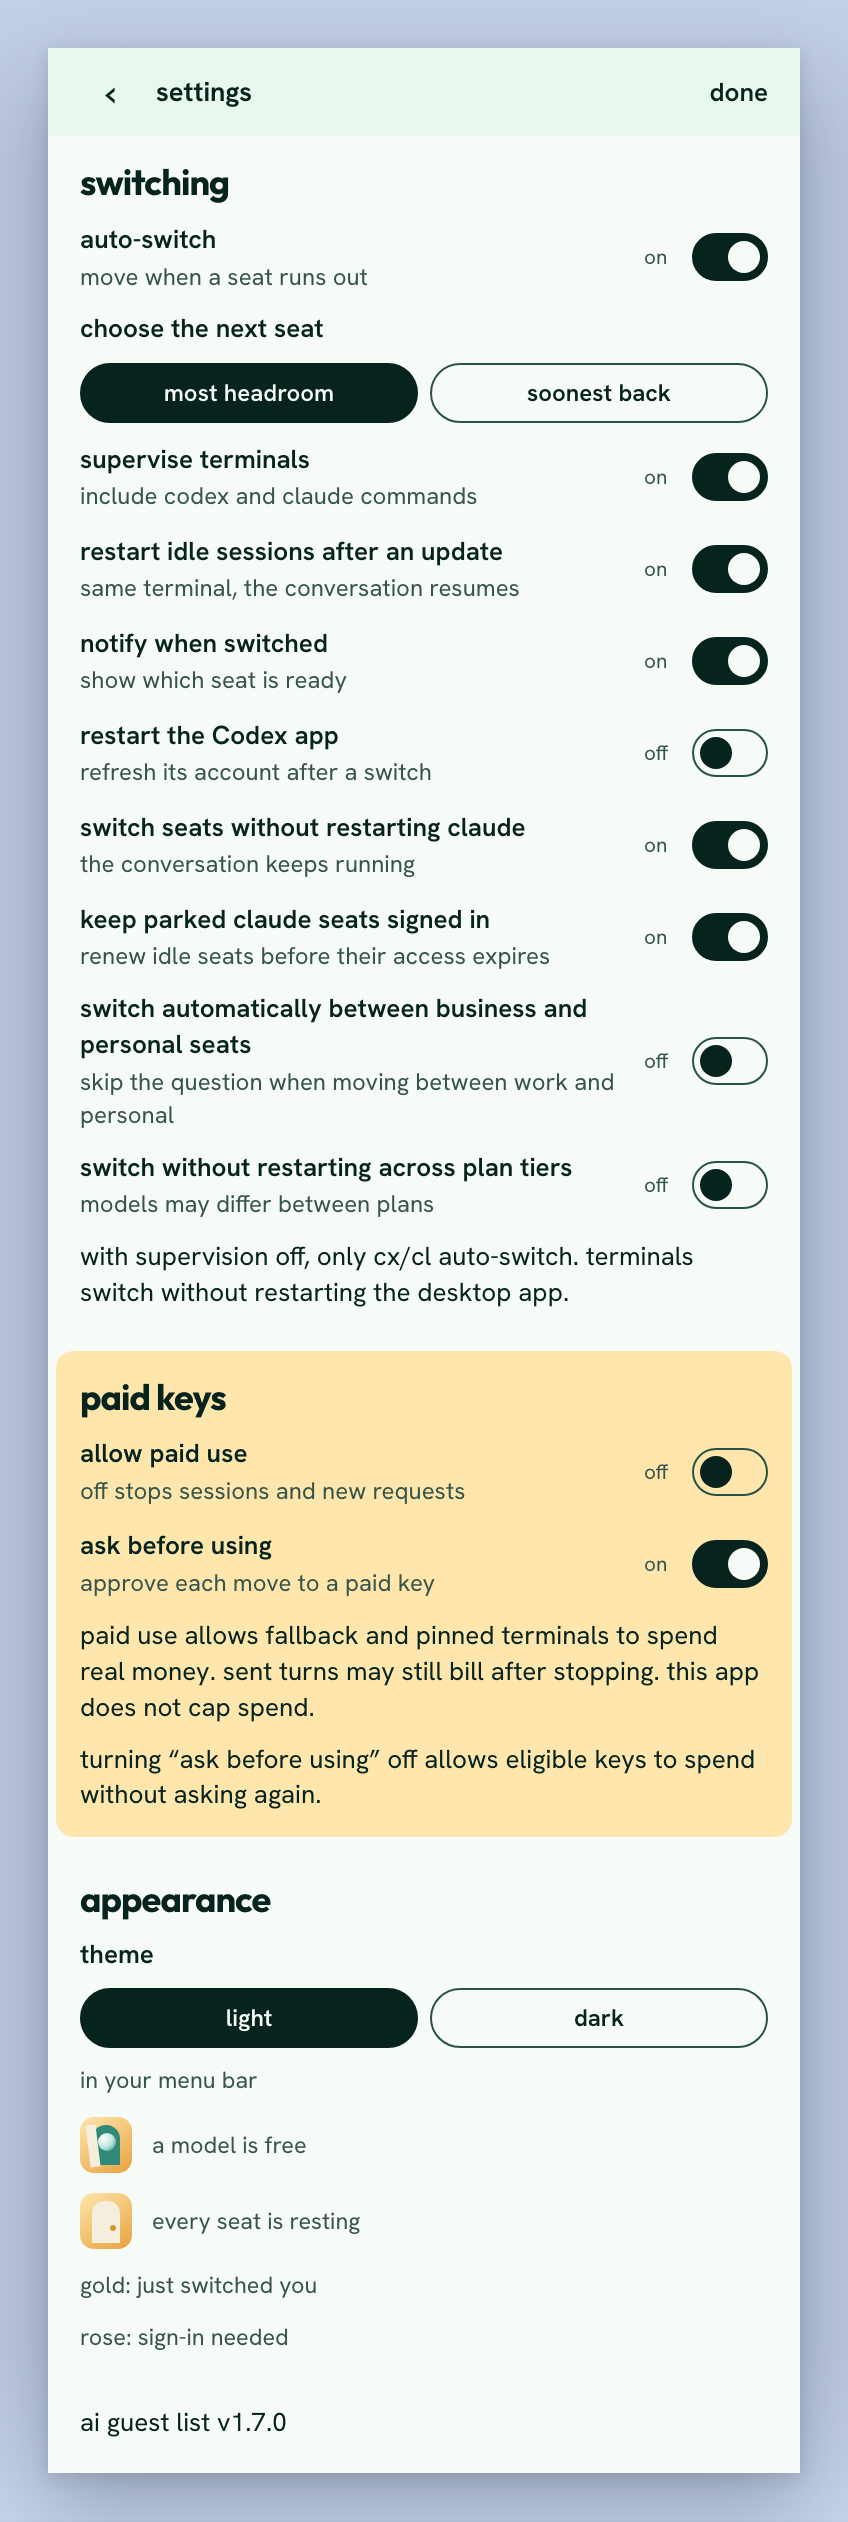
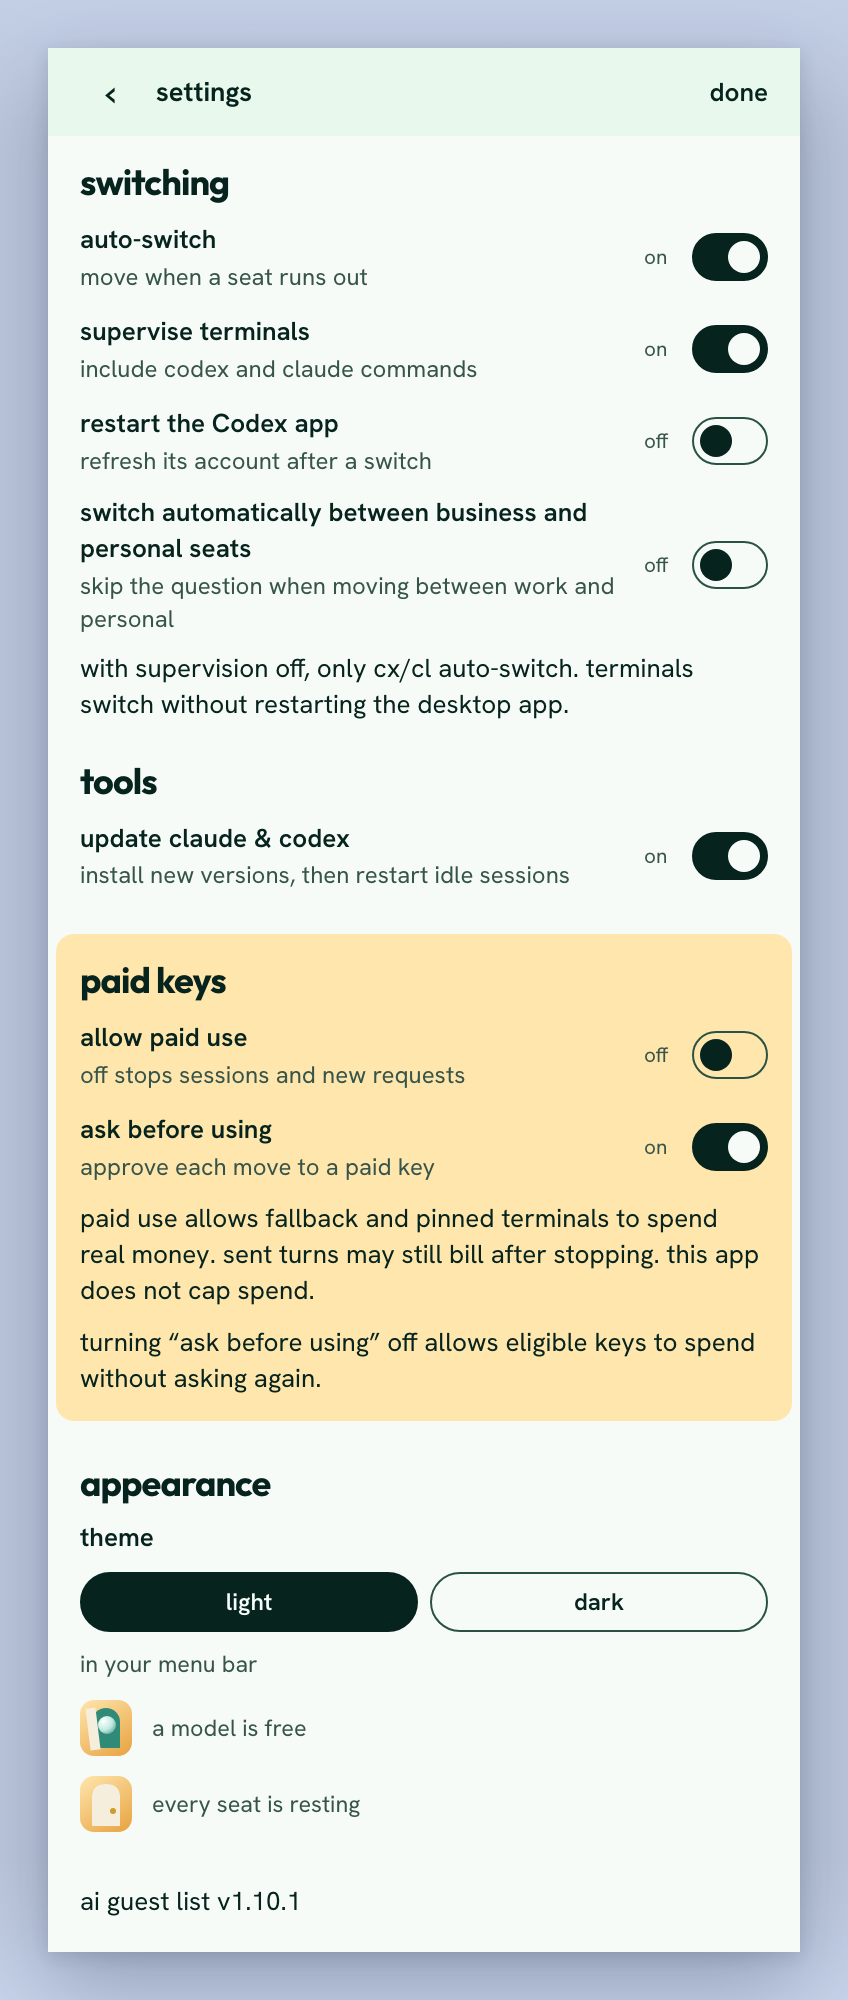
README: new screenshots and today's features (#96)
Regenerated screenshots (new settings with the tools section) and README text for CLI auto-updates, restarts after /resume, wake recovery and the remaining settings.

Changed region(s): [[0.0613, 0.0, 0.9505, 0.992], [0.6745, 0.775, 0.7358, 0.806], [0.6439, 0.248, 0.6745, 0.279]]

diff --git a/README.md b/README.md
@@ -53,7 +53,7 @@ connect through the official tools.
 <p align="center">
   <img src="docs/assets/screenshot.png" width="340" alt="The ai guest list popover: a status chip, then one block per tool with the seat on now, how much of its tighter window is left, when it resets and where work goes next; below, one line per other seat with its kind and plan, a resting seat with its return time, and an API-key seat priced per token." />
   &nbsp;
-  <img src="docs/assets/screenshot-settings.png" width="340" alt="The settings view in three sections: switching, paid keys set apart on gold, and appearance with the theme picker and the menu-bar icon legend." />
+  <img src="docs/assets/screenshot-settings.png" width="340" alt="The settings view in four sections: switching (auto-switch, supervise terminals, restart the Codex app, business and personal seats), tools (keep the Claude Code and Codex CLIs up to date), paid keys set apart on gold, and appearance with the theme picker and the menu-bar icon legend." />
   <br><sub><i>The shipping popover and settings, with fictional accounts. Views are expanded to show all content.</i></sub>
 </p>
 
@@ -97,6 +97,11 @@ connect through the official tools.
   popover only raises an alert when there is something to do (sign in, check a subscription). Active seats
   refresh every 30 seconds while the popover is open; background and parked-seat refreshes run
   every three minutes. Provider throttling backs off and keeps the last reading visibly stale.
+  When your Mac wakes, every seat is read again within seconds. A request that couldn't reach the
+  network at all (Wi-Fi or DNS not up yet) is retried after 30 seconds instead of waiting out the
+  rate-limit backoff, so "no reading yet" clears by itself. A seat the provider refused (an ended
+  subscription, a revoked login) keeps saying so through network blips and is never offered as
+  the next seat until the provider answers differently.
 - **Desktop switching** — the menubar moves a confirmed-limited seat to a verified healthy seat of
   the same tool when auto-switch is enabled. With “restart the Codex app after a swap” enabled, a running
   Codex desktop app quits gracefully and reopens; continue in your existing thread. Supervised
@@ -106,13 +111,23 @@ connect through the official tools.
   If your terminals or running sessions use an older engine than the app (e.g. a source checkout
   that wasn't pulled), the popover says so. An engine below the store's minimum writer version
   won't move credentials; a compatible older one still can, so restart it to get current behaviour.
-  From this release on, a session restarts itself in the same terminal when a newer engine is
-  installed, once it has been idle for over an hour with no unsent draft and nothing it started
-  still running, and resumes the conversation. `codex exec`, `claude -p`, paid key seats, sessions
+  A session restarts itself in the same terminal when a newer engine or a newer Claude Code /
+  Codex CLI is installed, once it has been idle for over an hour with no unsent draft and nothing
+  it started still running, and resumes the conversation. A Claude session you moved with `/resume`
+  or `/clear` resumes the conversation it last wrote in its folder; if another supervised Claude
+  session shares that folder and it can't tell whose conversation changed, it stays and the popover
+  says so. If the picture changes while Claude shuts down, it reopens with Claude's own
+  conversation picker instead of guessing. `codex exec`, `claude -p`, paid key seats, sessions
   started with a prompt or flags that can't be safely rebuilt, and Codex sessions sharing the Mac
   with another Codex session stay as they are; so do sessions started on older engines, which need
-  a manual restart. The popover keeps warning about any that can't restart themselves. Idle engine
-  restarts are always enabled, subject to these safety checks.
+  one manual restart. `acctsw status --json` lists running sessions with a `restart_blocker`
+  saying why one hasn't restarted yet. Idle restarts are always enabled, subject to these checks.
+- **Claude Code and Codex stay up to date** — every six hours the app checks each CLI with the
+  installer it came from (a Homebrew cask or formula, or a global npm install) and installs a newer
+  version, then idle sessions restart onto it as above. Claude's native installer already updates
+  itself and is left alone; project-local and `npx` copies are never touched. Updates run quietly
+  in the background, with one notification when a CLI was updated. Turn it off with **update claude &
+  codex** in settings.
 - **Switch notifications** — notices are always sent. Mute the app in macOS **System Settings > Notifications**.
 - **Add / remove seats** — official browser sign-in, plus a no-browser path for Codex (paste an
   `auth.json`). Claude is browser sign-in only: a `claude setup-token` is an env-var token, not the
@@ -122,6 +137,9 @@ connect through the official tools.
 - **Pay-per-token key seats** — an API key becomes a seat too, for when every subscription is
   resting or when you want one terminal on a specific model. Paid use is off by default,
   and confirmation is on by default. One switch stops every paid session. See [below](#bring-your-own-key).
+- **Few settings** — auto-switch, supervise terminals, restart the Codex app, switching between
+  business and personal seats without asking, update claude & codex, and the two paid-key switches.
+  Everything else (idle restarts, in-place switching, keeping parked seats signed in) is always on.
 - **Version & build** shown at the bottom of the settings view.
 
 ## Bring your own key
